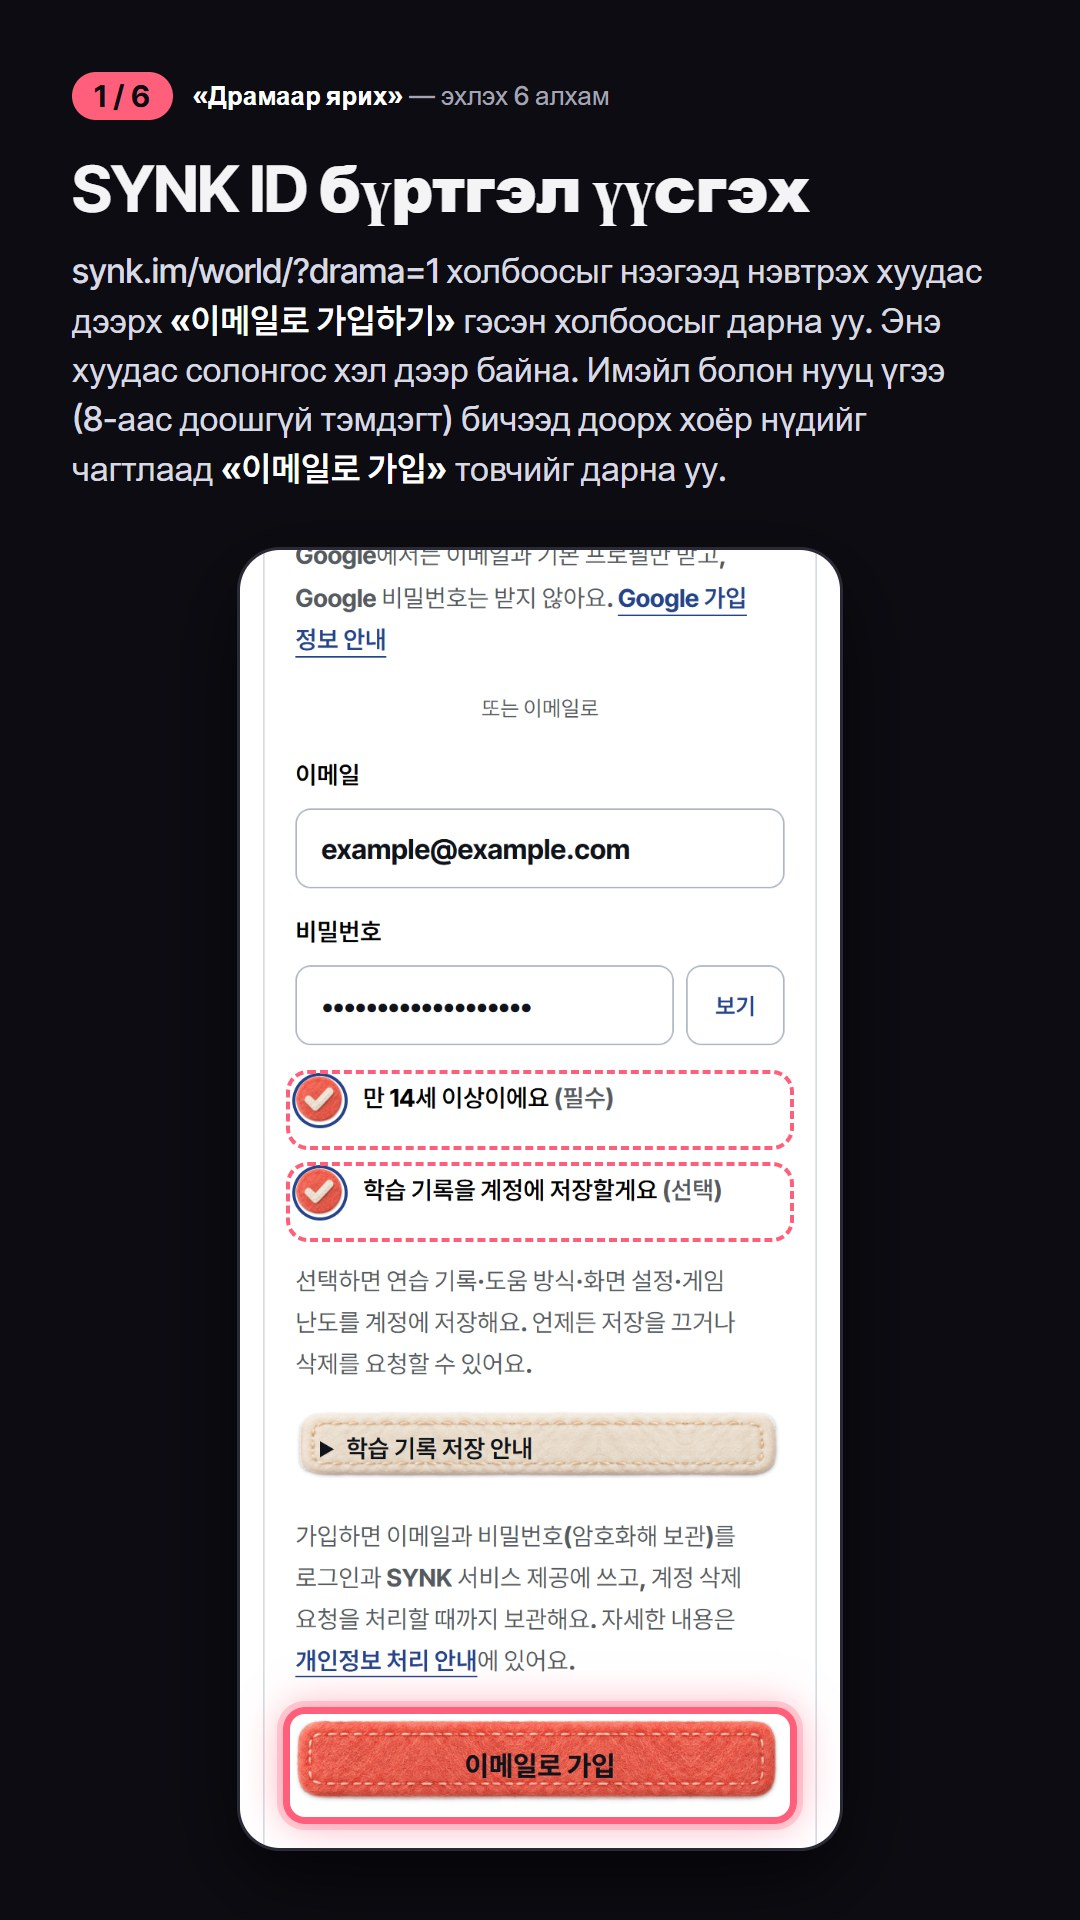
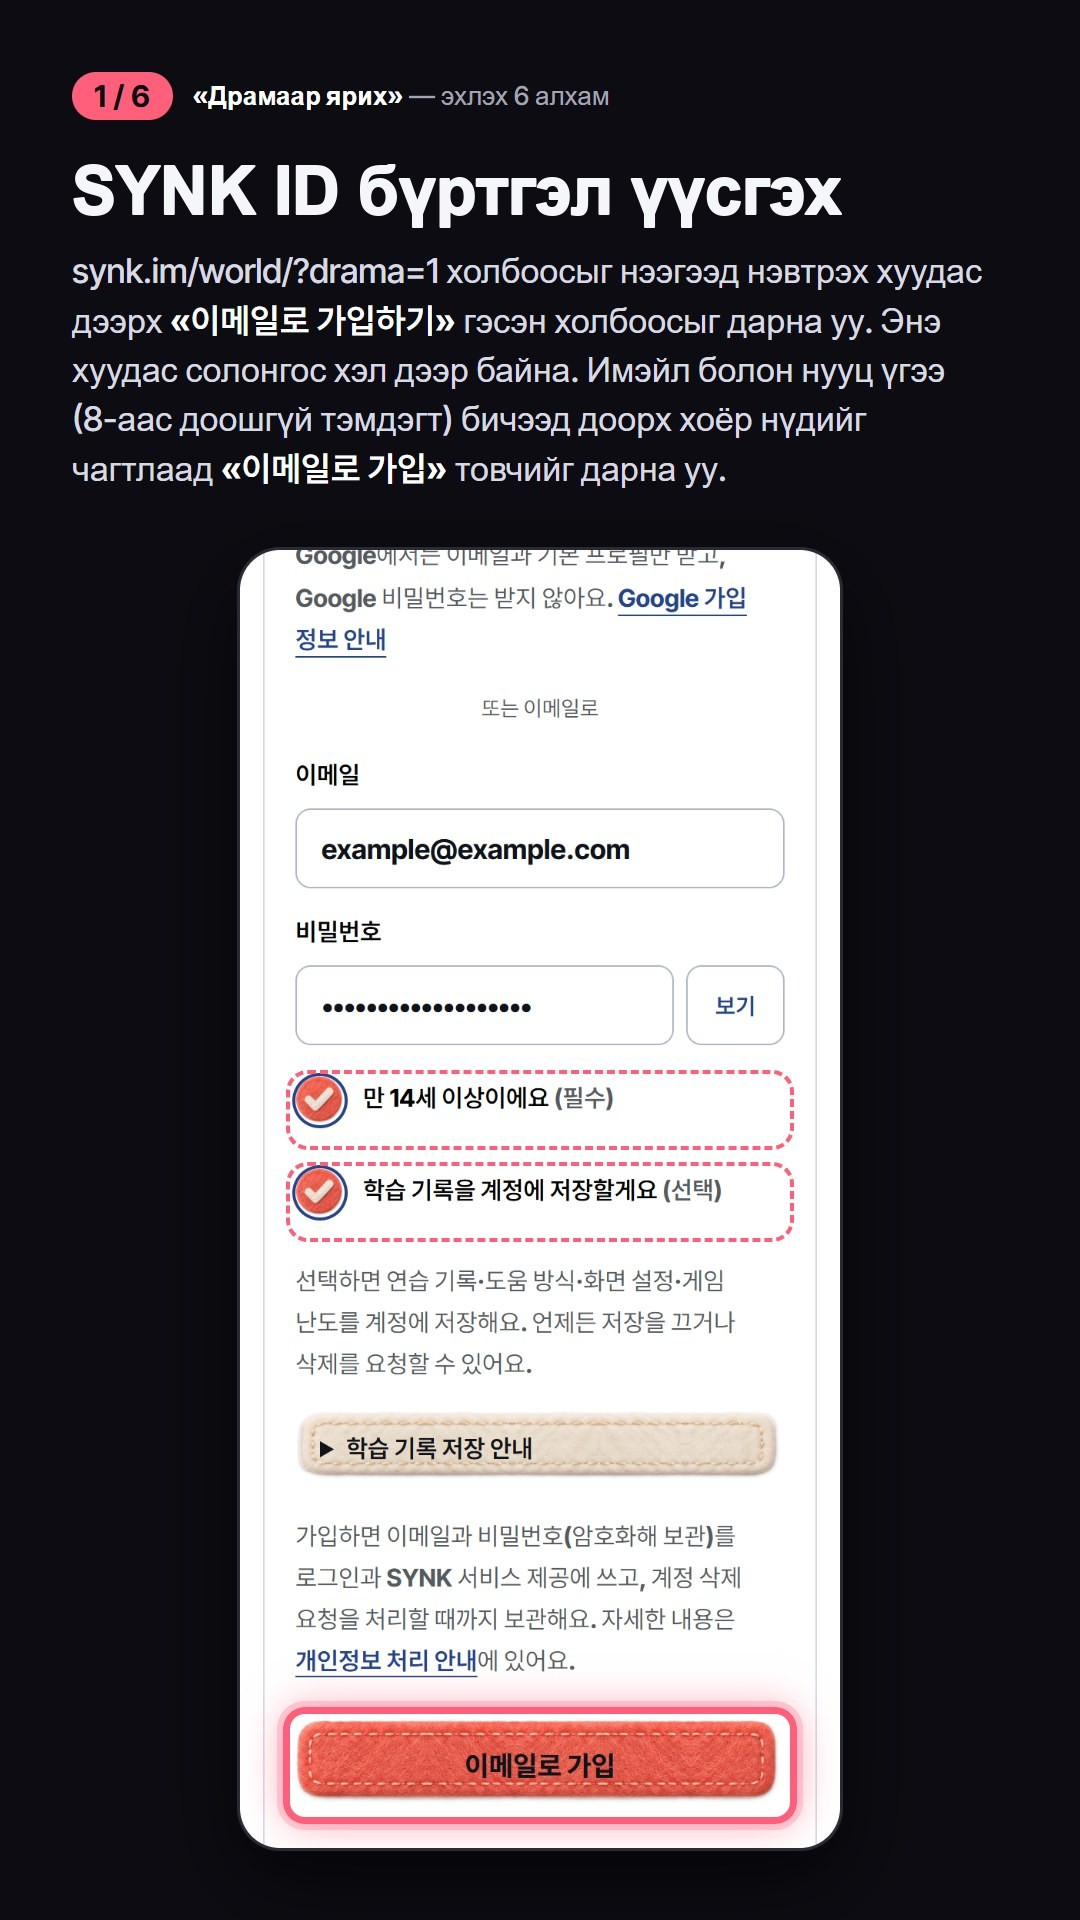
feat(드라마 말하기 · 몽골 시범 · 11-04 · 유호님 「추천대로 승인」): 영상 통화 · 저녁 집계 읽기 · LAB 게시 승인 기록. 인스타 모집 글 게시(DfTyCihoCV9), 페이스북은 로그인 뒤. 집계 도구에 --관리(관리 API read_only, SELECT 한 문장씩, 접속 주소 없음)와 시험 1개 더함, 예약 drama-pilot-tally-202611. 설계 D절 영상 통화 질문지. 신청은 먼저 받고 시작은 11-09(제출 뒤 안내에 날짜). 가입 그림 1 · 6번 제목의 글꼴 깨짐(ү) 고침

Changed region(s): [[0.0611, 0.0625, 0.7944, 0.125]]

diff --git a/docs/드라마말하기_몽골시범_20261103.md b/docs/드라마말하기_몽골시범_20261103.md
@@ -1,6 +1,6 @@
 # 드라마 말하기 — 몽골 학습자 시범 (11월)
 
-> 상태: 준비안(2026-11-03, 유호님 「시험 준비해」). §8 ①~③(모집 길 · 사례비 · 참여 안내)은 11-03 「이대로 승인」으로 정해졌고, 몽골어 문안은 세 겹 확인을 통과한 뒤 보낸다. ④~⑦은 아직 유호님 차례다. 참가자 이름 · 연락처 · 계정 연결표는 이 공개 저장소에 두지 않고 비공개 보관함 `SYNK-보관함/지원사업/모두의창업_1R_보고준비/시범_몽골_202611/`에 둔다.
+> 상태: 준비안(2026-11-03, 유호님 「시험 준비해」). §8 ①~③은 11-03 「이대로 승인」, ④ · ⑦ · LAB 게시는 11-04 「추천대로 승인」으로 정해졌다. ⑤ 크레딧 길 · ⑥ 실기 한 바퀴만 유호님 차례다. 신청은 먼저 받되 시작은 11-09부터다(받아 적기 크레딧 11-08 뒤 · 제출 뒤 안내에 날짜를 적음). 참가자 이름 · 연락처 · 계정 연결표는 이 공개 저장소에 두지 않고 비공개 보관함 `SYNK-보관함/지원사업/모두의창업_1R_보고준비/시범_몽골_202611/`에 둔다.
 > 근거: [기획](드라마말하기_기획.md) 3-5절(잴 단위) · 7절(평가용 녹음은 별도) · 8절(시범판) · 11절 ④(시범 대상), [시범판](../experiences/drama/pilot/README.md), [WORLD 올리기 설계](../experiences/drama/qa/WORLD올리기-20261102/설계.md) §17(7일 뒤 과제), 2R 사업계획서 초안 v5 「① 시범」 줄(비공개 보관함).
 > 검수: Fable 준비안 검수(11-03, P0 3 · P1 8 · P2 4) 반영 판. 몽골어 문안(§A · §B)은 세 겹 확인 끝(11-04) — 역번역 · Fable 교정 21곳 반영 뒤 여덟 조각으로 나눠 `tools/몽골어대조.js` 문법 층이 모두 「정상」이고, 맞춤법 층에 남은 낱말은 외래어(апп · имэйл)뿐이다. 모집 글 첫머리는 스포츠 코치로 읽히는 「дасгалжуулагч」를 빼고 「고칠 한 가지를 바로 말해 준다」로 옮겼다.
 
@@ -36,7 +36,7 @@
 ## 3. 모집 길 — 빠른 순
 
 1. **대표가 직접 아는 사람:** 2026년 상반기 대표가 일한 울란바토르 한국어 교육기관의 성인 수강생 · 졸업생 · 교사에게 유호님이 [모집 글](#a-모집-글)을 보낸다. 가장 빠르고 확실하다. 기관 이름은 기관 허락(사업계획서 받을 것 ②) 전에는 공개 글에 쓰지 않는다.
-2. **SYNK LAB Mongolia 인스타그램 · 페이스북 글 한 편:** 매일 판 밖의 게시라 유호님 승인 뒤에 건다. DM 답은 같은 문안으로 하고, 링크를 앱 안이 아니라 크롬 · 사파리로 열라는 줄과 복사용 링크를 함께 준다.
+2. **SYNK LAB Mongolia 인스타그램 · 페이스북 글 한 편:** 11-04 승인. [인스타 게시](https://www.instagram.com/synk.mn/p/DfTyCihoCV9/)(AI 콘텐츠 표시 켬), 페이스북은 Business Suite 로그인이 풀려 있어 아직 못 걸었다(유호님 로그인 뒤 같은 그림 · 캡션으로 건다, 원본은 비공개 보관함 `시범_몽골_202611/lab_post.jpg` · `lab_post_caption.txt`). 캡션 링크는 짧은 주소 `https://forms.gle/cxDAtQ9n85J2dVGJ8`. DM 답은 같은 문안으로 하고, 링크를 앱 안이 아니라 크롬 · 사파리로 열라는 줄과 복사용 링크를 함께 준다.
 3. **한국 안 몽골 유학생:** 전북 대학 국제교류처 통화(PATH 전화와 같은 날) 때 한마디 부탁. 일정상 보조 길이다.
 
 ## 4. 진행 — 참가자 혼자, 휴대폰으로
@@ -83,7 +83,7 @@
 | ② 몽골어 화면 | **공개 끝(11-04):** 화면 글 174키 · 대사 뜻 · B · C 카드 몽골어, WORLD에서 고른 언어(`synk.world.lang`)를 따르고 몽골 학습자는 한국어 보기에서도 뜻이 몽골어. 세 겹 확인 7판([기록](../experiences/drama/qa/몽골어-20261103/README.md)). 화면 검수 아르곤 8(반영 8) · Fable 3(반영 3) · Fable 다시 0, synk-policy `48c7245522`. 안드로이드 · 아이폰 실제 글꼴 폭은 ⑧에서 본다 | 몽골어를 더하고 WORLD에서 고른 언어를 따른다. 현지어 세 겹 확인(역번역 → Fable → 아르곤) | 출발은 막지 않는다 — 영어 판과 몽골어 그림 안내로 출발하고 설문에서 화면 언어를 묻는다 |
 | ③ 8일 뒤 C | 이미 공개돼 있다 — B 판정 7~10일 뒤 그 계정 첫 화면에 「또 다른 장소」 카드. 실제 계정에서는 아직 안 봤다. 확인 절차는 아래 [③ C 카드 실계정 확인 절차](#c-card-check) | 11-08 뒤 대표 계정으로 B를 한 번 하고, 7일 뒤 카드가 뜨는지 본다(참가자보다 며칠 앞선다) | 참가자 첫 사람의 C가 첫 실측이 된다 — 그 사실을 적는다 |
 | ④ 받아 적기 막힘 | **공개 끝(11-04):** B는 받아 적기까지 간 테이크가 올 때만 기록(서버 사정 · 꺼짐 · 오늘 횟수 끝으로는 안 씀). 받아쓰기를 못 쓰면 B 앞에서 「…남겨 둘게요」 · 다시 확인 · 나중에 다시, 장면을 끝낸 계정 첫 화면에 B 카드. 화면 검수 아르곤 5 · Fable 4 · Fable 다시 1(P0 · P1 0). master `f32c3846cd` · synk-policy `e715070aa3` | 받아 적기가 막힌 동안에는 B를 열지 않고 「나중에 다시」로 둔다(B를 소모하지 않음) | 출발 판정(§9)으로 링크를 안 보낸다 |
-| ⑤ 집계 | **끝(11-03):** `node tools/드라마시범집계.mjs --참가 <목록> [--기준 <시각>]` — 참가 계정만 `begin read only`로 읽어 §1 분모 줄 숫자와 참가 번호별 한 줄만 낸다(이메일 · 계정 id 없음). 합성 자료 시험 7개(master `835cd4aa4`). 운영 DB 실행은 §8 ⑦ 승인 뒤 | 연결표의 참가 계정만 읽어 §1 분모 줄 숫자만 내는 읽기 전용 집계 도구. 11-09~11-24 매일 저녁 돌린다 | 손으로 계정별 확인 |
+| ⑤ 집계 | **끝(11-03):** `node tools/드라마시범집계.mjs --참가 <목록> [--기준 <시각>]` — 참가 계정만 `begin read only`로 읽어 §1 분모 줄 숫자와 참가 번호별 한 줄만 낸다(이메일 · 계정 id 없음). 합성 자료 시험 7개(master `835cd4aa4`). 운영 읽기는 §8 ⑦ 승인(11-04)대로 `--관리`(관리 API `read_only` 질의, 접속 주소 불필요) | 연결표의 참가 계정만 읽어 §1 분모 줄 숫자만 내는 읽기 전용 집계 도구. 11-09~11-24 매일 저녁 돌린다 | 손으로 계정별 확인 |
 | ⑥ 가입 안내 | **끝(11-04):** [그림 여섯 · 설명 글](드라마말하기_몽골시범_가입안내/README.md) — 로컬 리허설 캡처(운영 계정 없음 · 실존 개인정보 없음), 세 겹 확인 끝. 조율 세션이 ⑦ 신청 양식에 넣는다 | 몽골어 단계 그림 여섯 장(가입 → 메일 확인 → 튜터 고르기 → 학습 기록 동의 → 받아쓰기 안내 「보내고 받아 적기」 → 장면 시작) | — |
 | ⑦ 신청 양식 | **끝(11-04):** founder 워크스페이스 구글 설문 셋, 로그인 없이 열림 — [신청 · 동의](https://docs.google.com/forms/d/e/1FAIpQLSeqDI-LOHgKCxMWSG6t08O-QmKvth_rg6Y4y4PK_FAVrUSGdA/viewform) · [1일차 설문](https://docs.google.com/forms/d/e/1FAIpQLSegjDfosR67JiyKXUmuUJhCerkzvlgD7tmN-ch2vbFaIDKR5w/viewform) · [8일째 설문](https://docs.google.com/forms/d/e/1FAIpQLSdvRc_GJJ6HLdG3mJN18OTJg128mBMkdrAUgXiEkhblP9p3ew/viewform). 신청 양식은 안내(몽 · 한) · 이메일 · 동의 다섯 · 가입 그림 여섯 · 제출 뒤 시작 안내. 공개 양식 구조를 질문마다 대조했고 시험 제출 한 건으로 제출 뒤 화면까지 본 뒤 그 응답은 지웠다 | — |
 | ⑧ 실기 한 바퀴 | 실제 휴대폰 · 실제 마이크로 가입부터 B까지 돌린 적이 없다 | 11-07~08 아이폰 사파리 · 안드로이드 크롬 각 한 대로 새 계정 가입부터 B까지(대표 휴대폰 20분 또는 아는 사람 한 명 — 참가자 수에서 뺌) | 첫 참가자 날을 실기 확인으로 삼고 그날 고친다 |
@@ -105,13 +105,13 @@
 
 | | 정할 것 | 추천 |
 |---|---|---|
-| ① | 모집 길 | 1(직접 아는 사람)을 바로, 2(LAB Mongolia 게시)를 함께. 3은 PATH 전화 때 |
+| ① | 모집 길 | **승인(11-03) · LAB 게시 승인(11-04).** 1(직접 아는 사람)을 바로, 2(LAB Mongolia 게시)를 함께. 3은 PATH 전화 때 |
 | ② | 사례비(돈) | 다 한 사람 3만원 상당을 8일째 끝난 뒤 한 번에(1일차만 한 사람은 2만원). 10명이면 최대 30만원. 한국 거주자는 한국 계좌, 몽골 거주자는 휴대폰 충전 · 기프트 코드나 길 1의 기관을 통해 한 번에. 몽골 은행 국제 송금은 한 건 수수료가 사례와 비슷해 쓰지 않는다 |
 | ③ | 참여 안내 · 동의 문안 | 아래 B 그대로 |
-| ④ | 선택 영상 통화 | 3명, 질문지는 Claude가 준비 |
+| ④ | 선택 영상 통화 | **승인(11-04).** 3명, [질문지](#d-영상-통화-질문지) |
 | ⑤ | 받아 적기 크레딧 길 | synk.yuh 결제 화면 「11월 8일 Plus로 변경」 예약을 「플랜 갱신」으로 되돌리기(트랙 §1) — 11-05까지. 안 하면 11-08에 크레딧이 안 들어와 시범 전체가 밀린다 |
 | ⑥ | 실기 한 바퀴(§7 ⑧) | 대표 휴대폰 20분 또는 아는 사람 한 명 |
-| ⑦ | 집계 도구로 참가 계정 기록 읽기(§7 ⑤) | 11-09~11-24 매일 저녁 숫자만 읽기를 한 번에 승인 |
+| ⑦ | 집계 도구로 참가 계정 기록 읽기(§7 ⑤) | **승인(11-04).** 11-09~11-24 매일 저녁 숫자만 읽기, 예약 `drama-pilot-tally-202611` |
 
 ## 9. 일정
 
@@ -230,3 +230,17 @@
 1. 지난 며칠 동안 드라마 1화에서 배운 말을 실제로 써 본 적이 있나요? 있다 / 없다
 2. 그 사이 한국어 수업을 듣거나 다른 앱으로 공부했나요? 있다 / 없다
 3. 오늘 과제는 얼마나 쉬웠나요? 1(아주 어렵다)~5(아주 쉽다)
+
+## D. 영상 통화 질문지
+
+원하는 3명, 15분, 녹화하지 않는다(11-17~22). 8일째 과제까지 끝난 뒤에 한다. 반응과 인용을 얻는 자리이고 판정 숫자에는 섞지 않는다. 인용은 신청 양식에서 동의한 사람의 말만, 이름 없이 쓴다. 답을 유도하지 않도록 앱 칭찬이나 설명을 먼저 하지 않는다.
+
+1. (2분) 한국어를 왜, 어떻게 배우고 있어요? 말하기 연습은 평소에 어디서 해요?
+2. (3분) 드라마 장면을 하면서 가장 기억나는 순간은 뭐예요? 왜요?
+3. (3분) 코치 노트를 받았을 때 어떤 생각이 들었어요? 다시 할 때 무엇을 바꿨어요?
+4. (2분) 어디서 막히거나 답답했어요? 그만두고 싶었던 순간이 있었어요?
+5. (2분) 며칠 뒤 다른 장소 과제를 했을 때, 앞에서 배운 말이 떠올랐어요? 실제로 써 본 적이 있어요?
+6. (2분) 지금 쓰는 다른 공부 방법과 비교하면 무엇이 달라요? 이 앱에 돈을 낸다면 어떤 것이 있어야 해요?
+7. (1분) 친구에게 뭐라고 소개하겠어요?
+
+적는 것: 말 그대로의 문장(이름 없이), 그 문장이 나온 질문 번호. 비공개 보관함 `시범_몽골_202611/`에 두고 2027-01-31에 지운다.

diff --git a/docs/_ops/결정.md b/docs/_ops/결정.md
@@ -11,6 +11,7 @@
 | 2026-11-04 | 확정 | [첨벙댕 내레이션 · 유호님] 11번 첨벙댕 내레이션은 일레븐 v4 Kevin으로 둔다(후보 Kevin · Andre · Miles). 지금 최종본이 이미 Kevin이라 다시 굽지 않는다. | 유호님 「Kevin으로 두기」(11-04). 시댄스 세 판은 「구명조끼」를 「구명조닉」으로 읽어 일레븐 대비책으로 갔다. 최종본 소리를 후보 셋과 맞대어 Kevin임을 쟀다(가운데 5초 상관 Kevin 0.47 · 나머지 0.09 아래, 맨 끝 말 0.97). |
 | 2026-11-04 | 확정 | [WORLD 첫 실행 · 1화 끝 객석의 세 친구 · 유호님 「이대로 둬」] 1화 끝 보상 객석에 마스코트 셋(마린 · 몽글 · 까몽)이 사람만 한 크기로 낀다. 첫 보상은 사람만, 두 번째 · 세 번째 보상에 한 마리씩, 전체 세 마리이고, 처음 앉을 때 속마음 한 줄(「…잠깐, 쟤 누구지?」 → 「…또 있네?」 → 「…쟤들, 내 팬인가?」)을 둔다. 객석은 두 갈래 모두 실사다(배우 = 무대에서 본 시사회 상영관에 한 사람씩 앉음, 아이돌 = 어두운 콘서트장에 응원봉이 하나씩 켜짐). 10-31 「마스코트는 앱에서 빼고 SNS에만」의 이 자리만의 예외이고, 앱 안 다른 마스코트를 되살리는 결정이 아니다. 그림은 10-14 규칙대로 장면과 한 장으로 굽는다. | 유호님 11-04 「객석에 우리 마스코트들 넣는 거 어떻게 생각해? 사람 사이에 껴가지구 말이야」 → Claude 의견(넣되 첫 보상은 사람만 · 세 마리만 · 사람 크기) → 14판 [보기 페이지](https://claude.ai/artifact/LeLsDuUZxtq6Boqc5p6vri), Fable 검수 P1 없음 → 「세 친구를 객석에 이대로 둘까요?」에 「이대로 둬」. 의견을 드릴 때 10-31 행을 짚지 못했다 — 유호님이 직접 넣자고 한 자리라 예외로 적는다. |
 | 2026-11-04 | 확정 | 환승 러시는 Atlas 게임 사본 목록에, 바닷가 레이스의 세 안내 음성은 제작 원고와 배포 목록을 짝지어 등록한다. | 원래 CI에서 미등록 사본 1개와 빠진 음성 3개를 재현했다. [사본 검사](../../tools/lib/atlas-copies.js) · [음성 제작 목록](../../tools/lib/미니게임목소리_게임.cjs) |
+| 2026-11-04 | 확정 | [드라마 말하기 · 몽골 시범 · 영상 통화 · 집계 읽기 · LAB 게시 · 유호님] 선택 영상 통화 3명(녹화 없음, 질문지 설계 D절), 11-09~11-24 매일 저녁 참가 계정 기록을 숫자만 읽는 집계(관리 API read_only 질의), SYNK LAB Mongolia 인스타 · 페이스북 모집 글 한 편을 승인했다. 읽기는 신청 양식에 낸 계정만, 출력은 숫자와 참가 번호뿐이다 | 유호님 11-04 「추천대로 승인」(「영상 통화 · 집계 읽기 · LAB 게시를 추천대로 승인할까요?」에) · [시범 설계 §8](../드라마말하기_몽골시범_20261103.md) |
 | 2026-11-04 | 확정 | [환승 러시 MVP · 유호님 「a로 가자 · 폰트도 실사 느낌 · 프론트 부족 · 다양한 사람을 재미로」 + Claude 판단(기획 · 기술 설계)] 그림 길은 A(실사 판 + 깊이 지도 셰이더). 화면은 지하철에 실제로 있는 물건만(LED 전광판 · 바닥 스티커 · 걸이 표지 · 역명판 · 교통카드 단말기 · 종이 안내문 · 스탬프 카드), 표지는 공공 문법 + Noto Sans KR. 칸 넷 · 승객 여섯(「오늘 만난 사람」 · 도감), 직장인 · 여행객만 듣기 문항이고 만남은 시계에 안 닿는다. 앱에서는 레슨 하나를 마치면 열리고, 열리면 홈 「놀이」의 바람길 카드 자리를 이어받는다(바람길 게임 자체는 그대로). 공개는 Fable 최종 뒤 — 앱 연결 줄은 [대기 패치](../../experiences/subway-rush/qa/앱연결-대기.patch)로 묶어 둠. | [설계 v0.4](../../experiences/subway-rush/설계.md). 문항 60개 2중 검수 통과, 얼굴 일곱 실존 대조 통과, 아르곤 13건 반영, Fable은 주간 한도로 대기 |
 | 2026-11-04 | 확정 | [드리미나 AI 표시 끄기 · 유호님] 드리미나 계정 설정 「워터마크 삭제」를 켠다. 앞 결정의 「안 켬」을 바꾼다. 표시 없는 판을 쓰면 AI 생성물 공개 책임은 우리에게 있다(설정 창 동의). 이미 구운 10판을 같은 자료로 다시 받아 표시가 사라졌고 크레딧은 나가지 않았다. 자전거 본 파일을 표시 없는 판으로 바꾸고 옛 판은 받음/_표시있음/에 남겼다. | 유호님 11-04 「켜고 다시 받아」. 새로 고쳐도 켜짐 · 10판 왼쪽 위 0 · 2 · 3.9초 표시 없음 · 잔액 58 그대로 |
 | 2026-11-04 | 확정 | [환승 러시 설계 · Claude 판단(기획 · 기술 설계), 유호님은 시안에서 그림 길 · 목소리를 고름] 새 미니게임 「환승 러시」(experiences/subway-rush)는 실제 서울 노선 번호 · 색 · 역 이름 · 역 순서 · 환승 관계를 쓰고(시험이 안내와 양쪽으로 대조), 문 쪽 · 출구 번호 · 셔틀 · 지연 · 공사는 게임 속 사건으로 입구에 한 줄 밝힌다. 학교는 이름 없는 드라마 캠퍼스 그대로(실제 대학 역을 학교 역으로 삼지 않음), 실제 안내방송 녹음 · 환승 음악 · 운영사 로고 · 서체는 쓰지 않는다. 정답은 소리에만 두고 고를 때 시간 제한이 없으며 가만히 있으면 답이 아니다. 시계는 구간과 오답으로만 움직이고 늘 도착한다. 바람길 카드는 환승 러시가 그 학생에게 열린 뒤 홈 「놀이」에서만 내린다(LAB · 듣기 확인 도구는 그대로). 해금은 지금 앱 기록으로 생활 레슨 하나를 마치면, 1화에 등굣길 장면이 생기면 그 기록으로 바꾼다. | 유호님 11-04 「새로운 게임은 지하철 환승러시 …」 · 설계 experiences/subway-rush/설계.md v0.2 · Fable 설계 검토 16건(P1 7 · P2 7 · P3 2, 모두 반영) · 10-31 ④ 앱에서 마스코트 빼기 · 11-1 바람길은 겉만으로 안 됨 |
